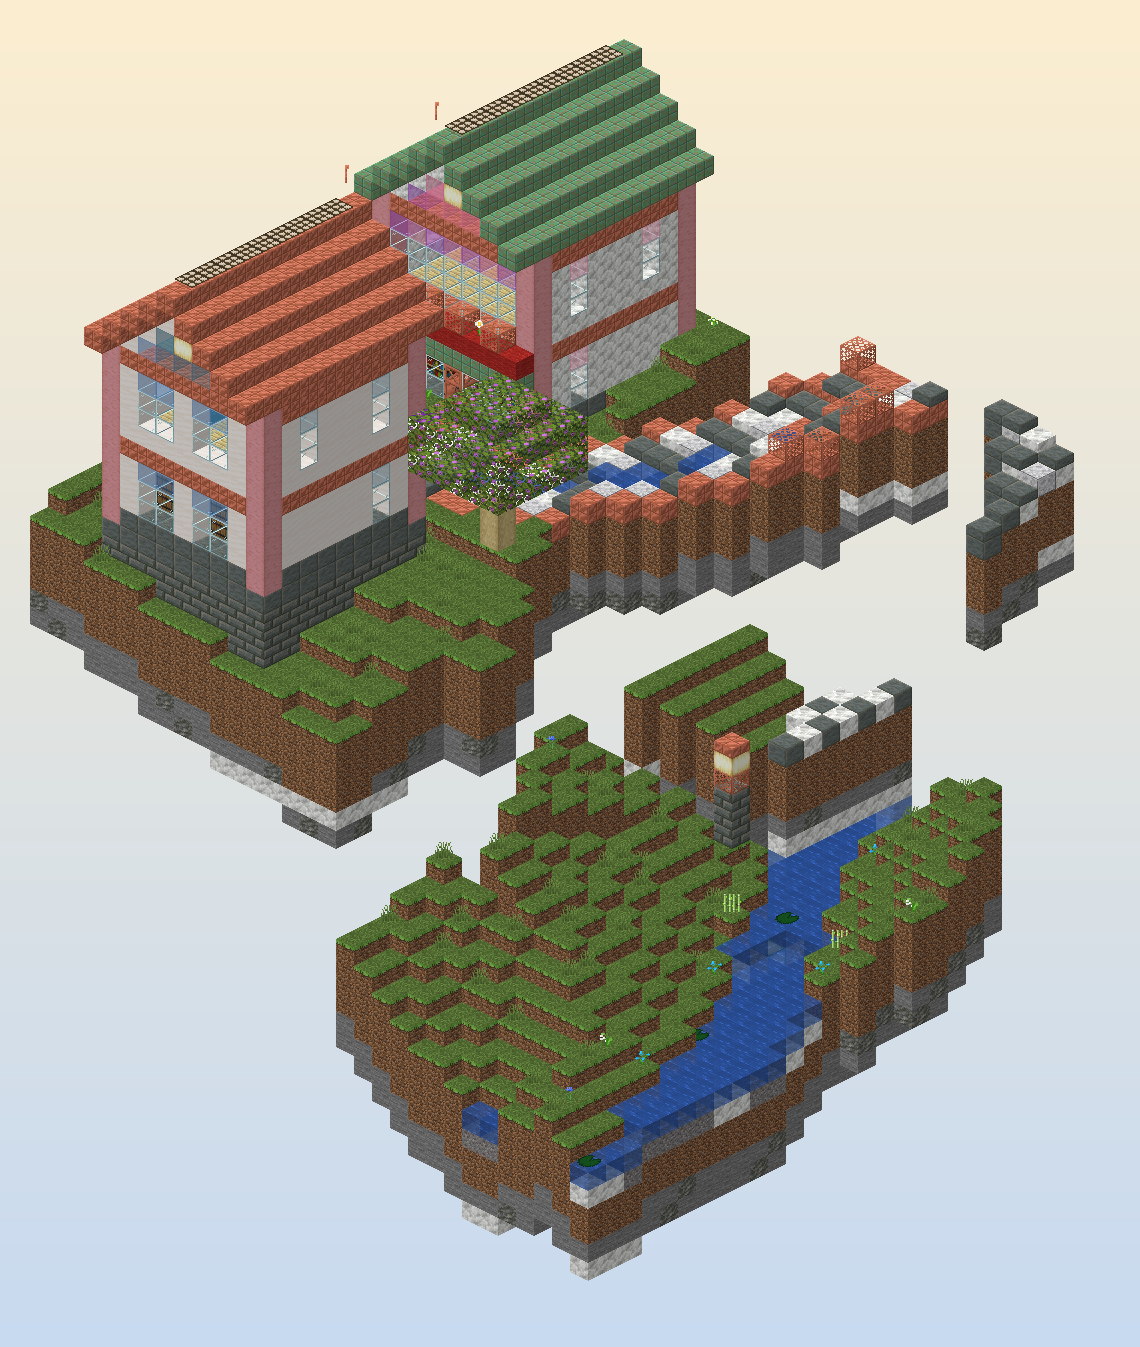
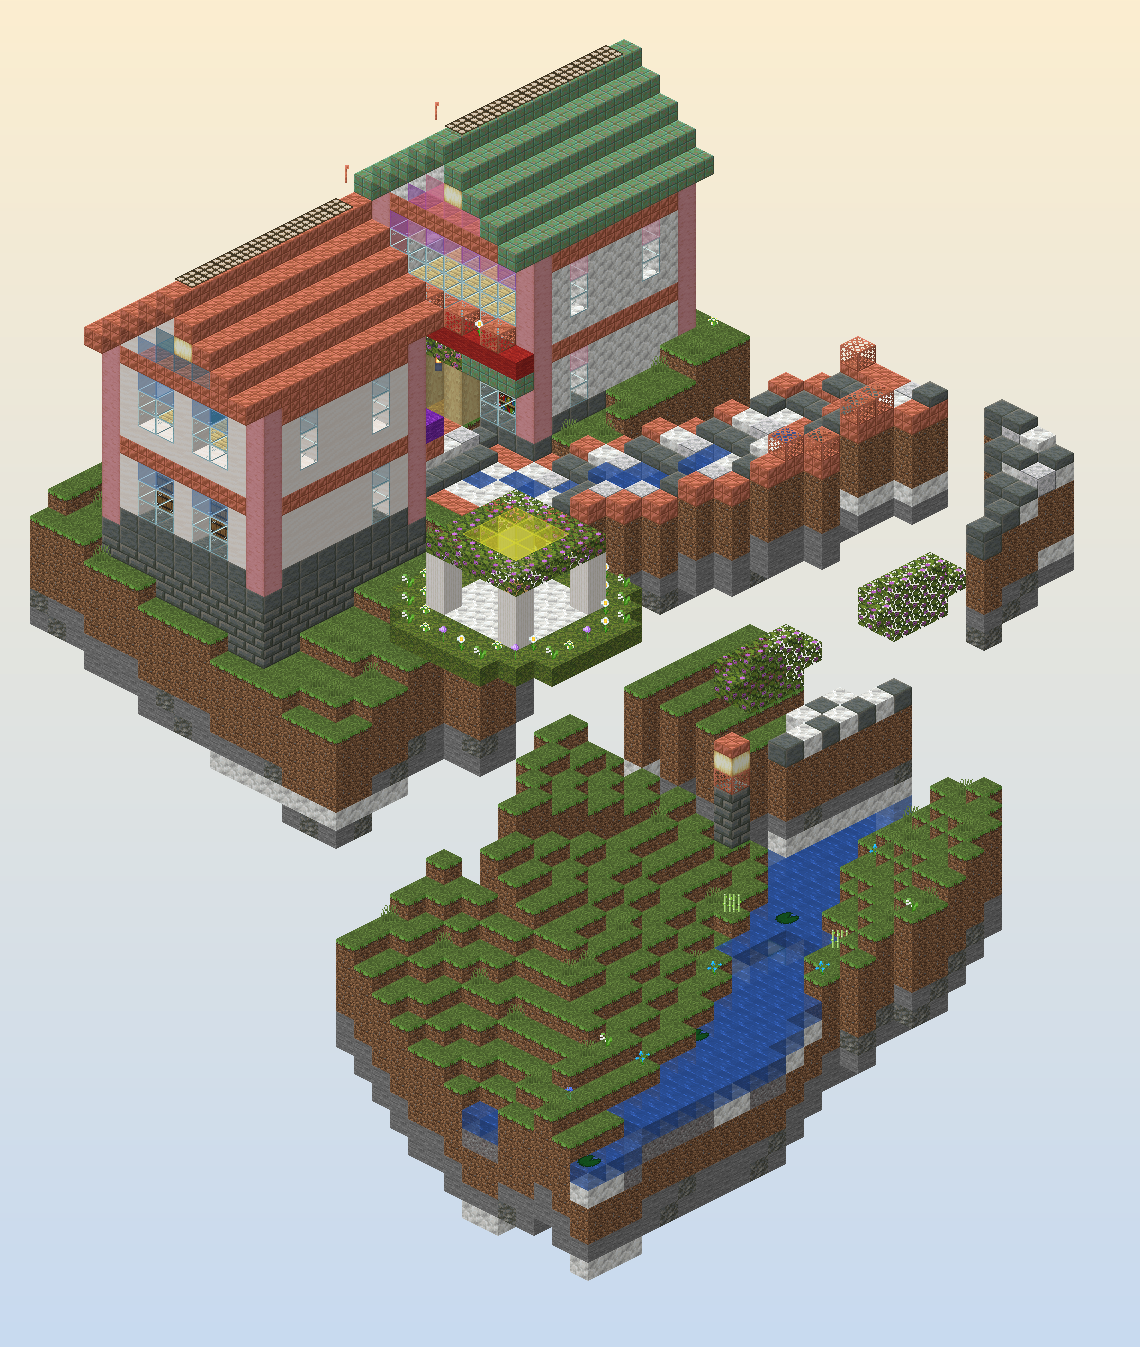
Solsticio draft 5: plaza benches and trees, footpath pergolas, easter eggs (tavern, secret garden, sundial)

Changed region(s): [[0.3377, 0.2494, 0.5833, 0.5301], [0.7368, 0.4053, 0.8596, 0.4989], [0.614, 0.4677, 0.7368, 0.5301]]

diff --git a/art/solsticio/city5.py b/art/solsticio/city5.py
@@ -317,6 +317,7 @@ def plazas():
                     for y in range(hh + 1, hh + 6):
                         V.pop((c[0], y, c[1]), None)
         fountain(cx, hh, cz)
+        PLAZAS.append((cx, hh, cz))
 
 
 def fountain(cx, h, cz):
@@ -331,6 +332,120 @@ def fountain(cx, h, cz):
     V[(cx, h + 5, cz)] = B('ochre_froglight')
     for dx, dz in ((1, 0), (-1, 0), (0, 1), (0, -1)):
         V[(cx + dx, h + 4, cz + dz)] = B('waxed_cut_copper_slab[type=top,waterlogged=false]')
+
+
+PLAZAS = []
+
+
+def plaza_decor():
+    """Benches facing each fountain, flowering trees in planters at the plaza corners."""
+    for (cx, h, cz) in PLAZAS:
+        for (dx, dz, facing) in ((0, 4, 'north'), (0, -4, 'south'), (4, 0, 'west'), (-4, 0, 'east')):
+            for k in (-1, 0, 1):
+                x, z = cx + dx + (k if dx == 0 else 0), cz + dz + (k if dz == 0 else 0)
+                V[(x, h + 1, z)] = B('birch_stairs[facing=%s,half=bottom,shape=straight,waterlogged=false]' % facing)
+        for (dx, dz) in ((4, 4), (4, -4), (-4, 4), (-4, -4)):
+            x, z = cx + dx, cz + dz
+            V[(x, h + 1, z)] = B('moss_block')
+            V[(x, h, z)] = B('calcite')
+            tree(x, z, h + 1, 4, 2)
+
+
+def arches():
+    """A flowering pergola over every footpath where it opens onto a street."""
+    for (x, z) in sorted(PATHCELLS):
+        for dx, dz in ((1, 0), (-1, 0), (0, 1), (0, -1)):
+            if (x + dx, z + dz) not in ROAD:
+                continue
+            h = HEIGHT[(x, z)]
+            px, pz = dz, dx
+            ok = all((x + px * k, z + pz * k) in HEIGHT and (x + px * k, z + pz * k) not in ROAD for k in (-1, 1))
+            if not ok:
+                continue
+            for k in (-1, 1):
+                for y in range(h + 1, h + 4):
+                    V[(x + px * k, y, z + pz * k)] = B('stripped_birch_log[axis=y]')
+            for k in (-1, 0, 1):
+                V[(x + px * k, h + 4, z + pz * k)] = LEAVES
+            V[(x, h + 3, z)] = HANG
+            break
+
+
+def easter_eggs():
+    # the tavern under the first plaza: a room below the fountain, a hatch at the plaza edge
+    if PLAZAS:
+        cx, h, cz = PLAZAS[0]
+        for dx in range(-4, 5):
+            for dz in range(-4, 5):
+                for y in range(h - 4, h - 1):
+                    V[(cx + dx, y, cz + dz)] = AIR
+                V[(cx + dx, h - 5, cz + dz)] = B('stripped_birch_wood[axis=y]') if (dx + dz) % 2 else B('birch_planks')
+        for dx in (-3, 3):
+            for dz in (-3, 3):
+                V[(cx + dx, h - 4, cz + dz)] = B('barrel[facing=up,open=false]')
+        V[(cx, h - 4, cz)] = B('jukebox[has_record=false]')
+        for (dx, dz) in ((2, 0), (-2, 0), (0, 2), (0, -2)):
+            V[(cx + dx, h - 2, cz + dz)] = B('ochre_froglight')
+        for y in range(h - 4, h):
+            V[(cx + 5, y, cz)] = B('ladder[facing=west,waterlogged=false]')
+            V[(cx + 6, y, cz)] = B('calcite')
+        V[(cx + 5, h, cz)] = B('waxed_copper_trapdoor[facing=west,half=top,open=false,powered=false,waterlogged=false]')
+        MARKERS.append(('easter:tavern', (cx, h - 4, cz)))
+    # the secret garden on the highest ground: a gazebo in a ring of flowers
+    def free_disc(c, r):
+        return all((c[0] + dx, c[1] + dz) in HEIGHT and (c[0] + dx, c[1] + dz) not in USED
+                   for dx in range(-r, r + 1) for dz in range(-r, r + 1) if math.hypot(dx, dz) <= r + 0.5)
+    spot = next((c for c in sorted(HEIGHT, key=lambda c: -HEIGHT[c])
+                 if math.hypot(*c) > T2 + 10 and free_disc(c, 5)), None)
+    if spot is None:
+        return
+    gx, gz = spot
+    hh = HEIGHT[spot]
+    for dx in range(-4, 5):
+        for dz in range(-4, 5):
+            d = math.hypot(dx, dz)
+            c = (gx + dx, gz + dz)
+            if c not in HEIGHT or d > 4.5:
+                continue
+            V[(c[0], hh, c[1])] = B('moss_block') if d > 2.6 else B('calcite')
+            for y in range(hh + 1, hh + 6):
+                V.pop((c[0], y, c[1]), None)
+            if 3.4 < d <= 4.5:
+                V[(c[0], hh + 1, c[1])] = B(('allium', 'azure_bluet', 'lily_of_the_valley', 'oxeye_daisy')[(dx * 3 + dz) % 4])
+    for (dx, dz) in ((2, 2), (2, -2), (-2, 2), (-2, -2)):
+        for y in range(hh + 1, hh + 4):
+            V[(gx + dx, y, gz + dz)] = B('quartz_pillar[axis=y]')
+    for dx in range(-2, 3):
+        for dz in range(-2, 3):
+            V[(gx + dx, hh + 4, gz + dz)] = LEAVES if max(abs(dx), abs(dz)) == 2 else B('yellow_stained_glass')
+    V[(gx, hh + 1, gz)] = B('lectern[facing=south,has_book=false,powered=false]')
+    MARKERS.append(('easter:secret_garden', (gx, hh + 1, gz)))
+    for dx in range(-5, 6):
+        for dz in range(-5, 6):
+            USED.add((gx + dx, gz + dz))
+    # a sundial on the second highest open ground
+    for c in sorted(HEIGHT, key=lambda c: -HEIGHT[c]):
+        if math.hypot(c[0] - gx, c[1] - gz) < 40 or math.hypot(*c) <= T2 + 10 or not free_disc(c, 4):
+            continue
+        sx, sz = c
+        sh = HEIGHT[c]
+        if not all((sx + dx, sz + dz) in HEIGHT for dx in (-3, 3) for dz in (-3, 3)):
+            continue
+        for dx in range(-3, 4):
+            for dz in range(-3, 4):
+                if math.hypot(dx, dz) <= 3.3:
+                    V[(sx + dx, sh, sz + dz)] = B('calcite') if (dx or dz) else B('waxed_chiseled_copper')
+                    for y in range(sh + 1, sh + 4):
+                        V.pop((sx + dx, y, sz + dz), None)
+        for k in range(0, 12):
+            th = math.radians(k * 30)
+            V[(sx + round(3 * math.cos(th)), sh, sz + round(3 * math.sin(th)))] = B('waxed_cut_copper')
+        V[(sx, sh + 1, sz)] = B('lightning_rod[facing=up,powered=false,waterlogged=false]')
+        MARKERS.append(('easter:sundial', (sx, sh + 1, sz)))
+        for dx in range(-4, 5):
+            for dz in range(-4, 5):
+                USED.add((sx + dx, sz + dz))
+        break
 
 
 def lamps():
@@ -925,6 +1040,7 @@ def build():
         d.clear()
     PATHCELLS.clear()
     RIVER_END.clear()
+    PLAZAS.clear()
     MARKERS.clear()
     USED.clear()
     PATHS.clear()
@@ -940,6 +1056,9 @@ def build():
     place_lots()
     footpaths()
     footbridges()
+    plaza_decor()
+    arches()
+    easter_eggs()
     lamps()
     lighthouses()
     nature()
